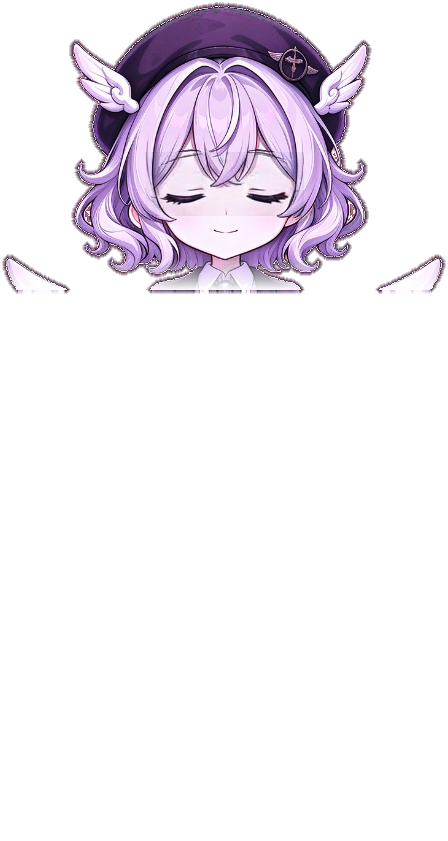
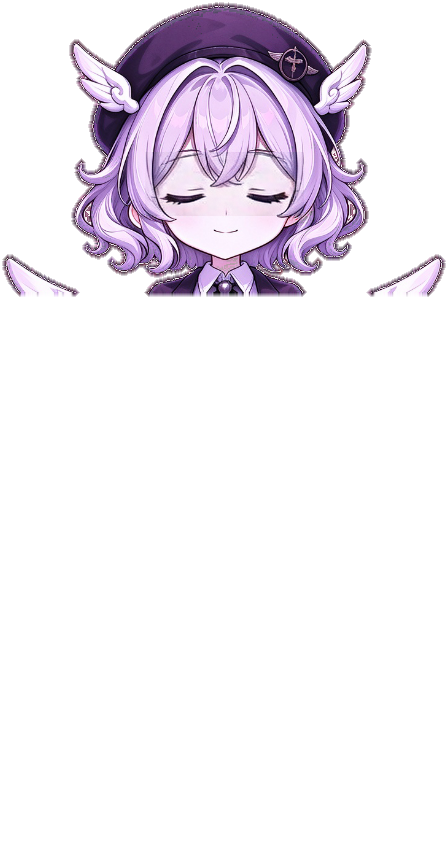
[codex] fix: 修复头身过画并稳定 smoke

diff --git a/tools/build-pet-layers.js b/tools/build-pet-layers.js
@@ -27,7 +27,7 @@ const PIVOT = { x: 224, y: NECK_CUT_Y };       // 头部旋转轴心（脖子根
 const EYE_RECT = { x0: 145, y0: 152, x1: 303, y1: 215 };   // 双眼合并区域
 const MOUTH_RECT = { x0: 202, y0: 216, x1: 248, y1: 247 }; // 嘴部区域
 const BODY_PAD_TOP = 232;                      // 身体层向上补绘的高度（头部转动时填缝）
-const HEAD_OVERPAINT = 32;                     // 头部向下过画高度，旋转时覆盖切缝
+const HEAD_OVERPAINT = 35;                     // 头部向下过画高度，旋转时覆盖切缝
 const HEAD_EDGE = 4;                           // 头部轮廓柔性外扩半径，用于抗锯齿
 
 function prepare(file, mode) {
@@ -88,14 +88,11 @@ console.log('[3/6] 拆分头部与身体…');
    之前按行取中心跨度，会把两侧离得较远的头发排除掉，那些头发留在身体层，
    歪头时与头部脱开、看起来像断了一块。改成连通填充后整头头发都归 head。 */
 const headMask = U.floodMask(O, PIVOT.x, Math.round(NECK_CUT_Y * 0.72), NECK_CUT_Y);
-const overpaintAlpha = new Map();
 for (let y = NECK_CUT_Y; y < Math.min(H, NECK_CUT_Y + HEAD_OVERPAINT); y++) {
-  const fade = 1 - (y - NECK_CUT_Y) / HEAD_OVERPAINT;
   for (let x = 0; x < W; x++) {
     const i = y * W + x;
     if (O.data[i * 4 + 3] <= 8) continue;
     headMask[i] = 1;
-    overpaintAlpha.set(i, fade);
   }
 }
 
@@ -108,20 +105,27 @@ const head = U.clone(O);
 U.applyMask(head, headMask);
 U.pasteRegion(head, CLOSED, EYE_RECT);
 U.expandEdge(head, headMask, HEAD_EDGE);
-for (const [i, fade] of overpaintAlpha) head.data[i * 4 + 3] = Math.round(head.data[i * 4 + 3] * fade);
 
-/* body 层：挖掉整个头部区域。
-   之前 body 保留完整原图，歪头时底下的原头部会露出来，两套轮廓叠成虚影。
-   挖掉后头只由 head 层提供，转动时不会再出现第二张脸。 */
+/* body 层：保留切缝以下的原图作为兜底，头部区域仍由 head 层提供。
+   这样静止时脖子和衣领是实心的，转动时身体层还能填住头部边缘的空隙。 */
 const body = U.clone(O);
 const bodyMask = new Uint8Array(W * H);
 for (let p = 0; p < W * H; p++) {
   const y = Math.floor(p / W);
-  if (!headMask[p] || (y >= BODY_PAD_TOP && y <= NECK_CUT_Y)) bodyMask[p] = 1;
+  if (!headMask[p] || y >= BODY_PAD_TOP) bodyMask[p] = 1;
 }
 U.applyMask(body, bodyMask);
 
-console.log(`    头部 ${headCount} px（下过画 ${HEAD_OVERPAINT}px，外扩 ${HEAD_EDGE}px）；身体层补绘 y=${BODY_PAD_TOP}..${NECK_CUT_Y - 1}`);
+console.log(`    头部 ${headCount} px（下过画 ${HEAD_OVERPAINT}px，无渐隐，外扩 ${HEAD_EDGE}px）；身体层保留原图 y>=${BODY_PAD_TOP}`);
+
+for (const y of [262, 270, 280]) {
+  const counts = [head, body].map((layer) => {
+    let solid = 0;
+    for (let x = 0; x < W; x++) if (layer.data[(y * W + x) * 4 + 3] === 255) solid++;
+    return solid;
+  });
+  console.log(`    y=${y} 全实像素 head=${counts[0]} body=${counts[1]}`);
+}
 
 console.log('[4/6] 差分提取眼睛与嘴巴…');
 /* 把全画布掩码裁成与小图层同尺寸，用于「只保留变化像素」 */
